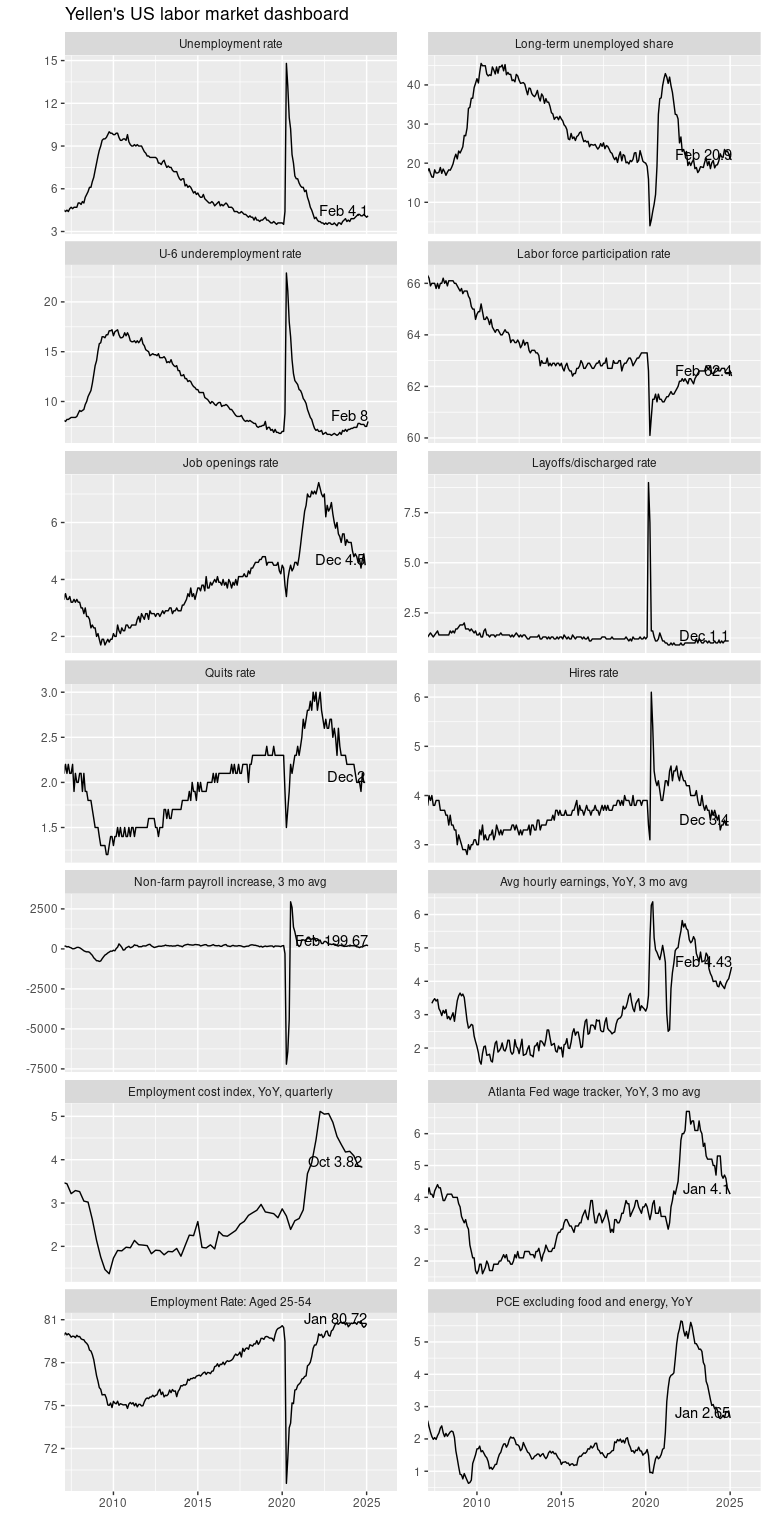
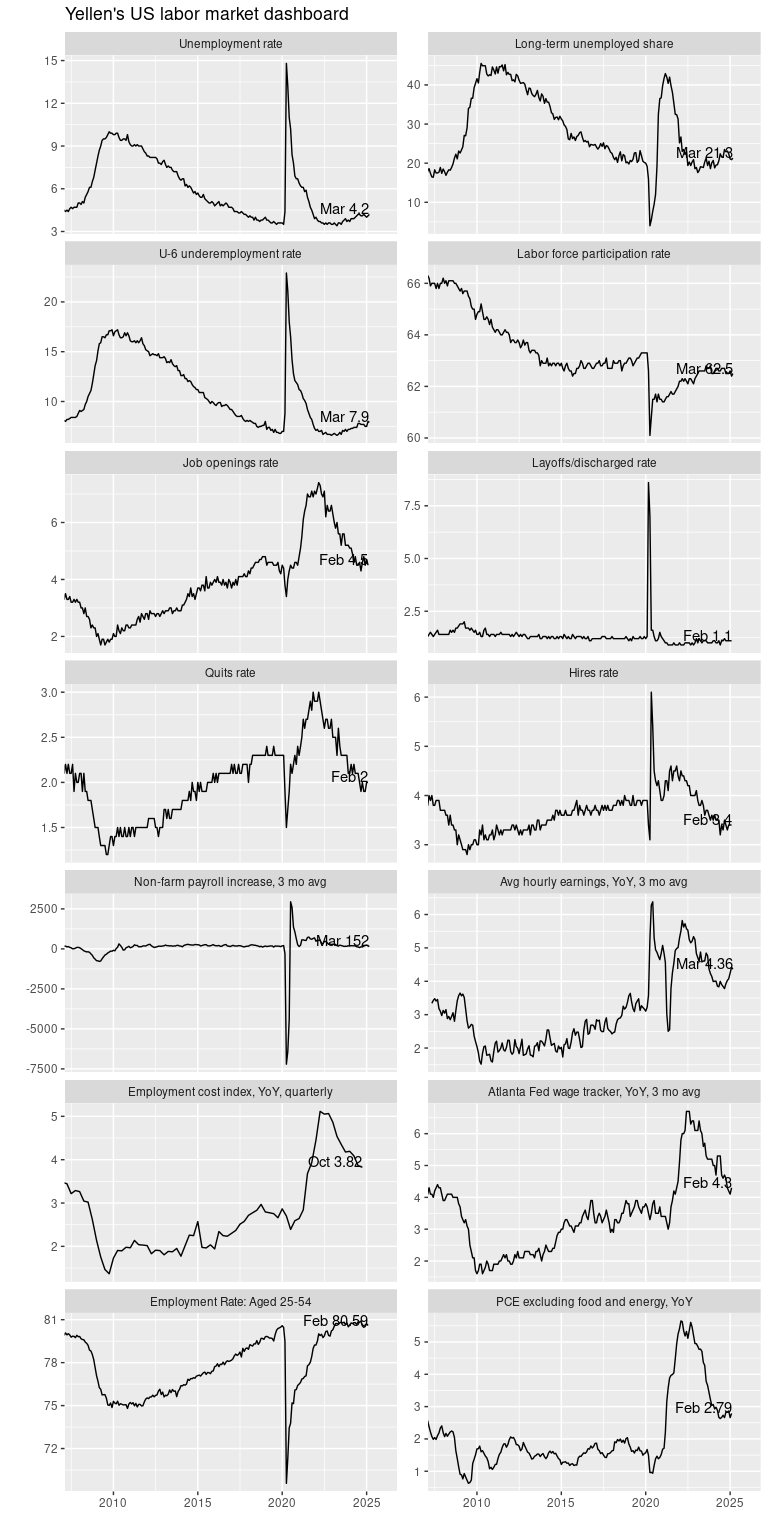
update March 2025 employment

diff --git a/README.md b/README.md
@@ -14,7 +14,7 @@ Mitsuo Shiota
 - [Prepare for the plot](#prepare-for-the-plot)
 - [Dashboard](#dashboard)
 
-Updated: 2025-03-08
+Updated: 2025-04-05
 
 ## Summary
 
